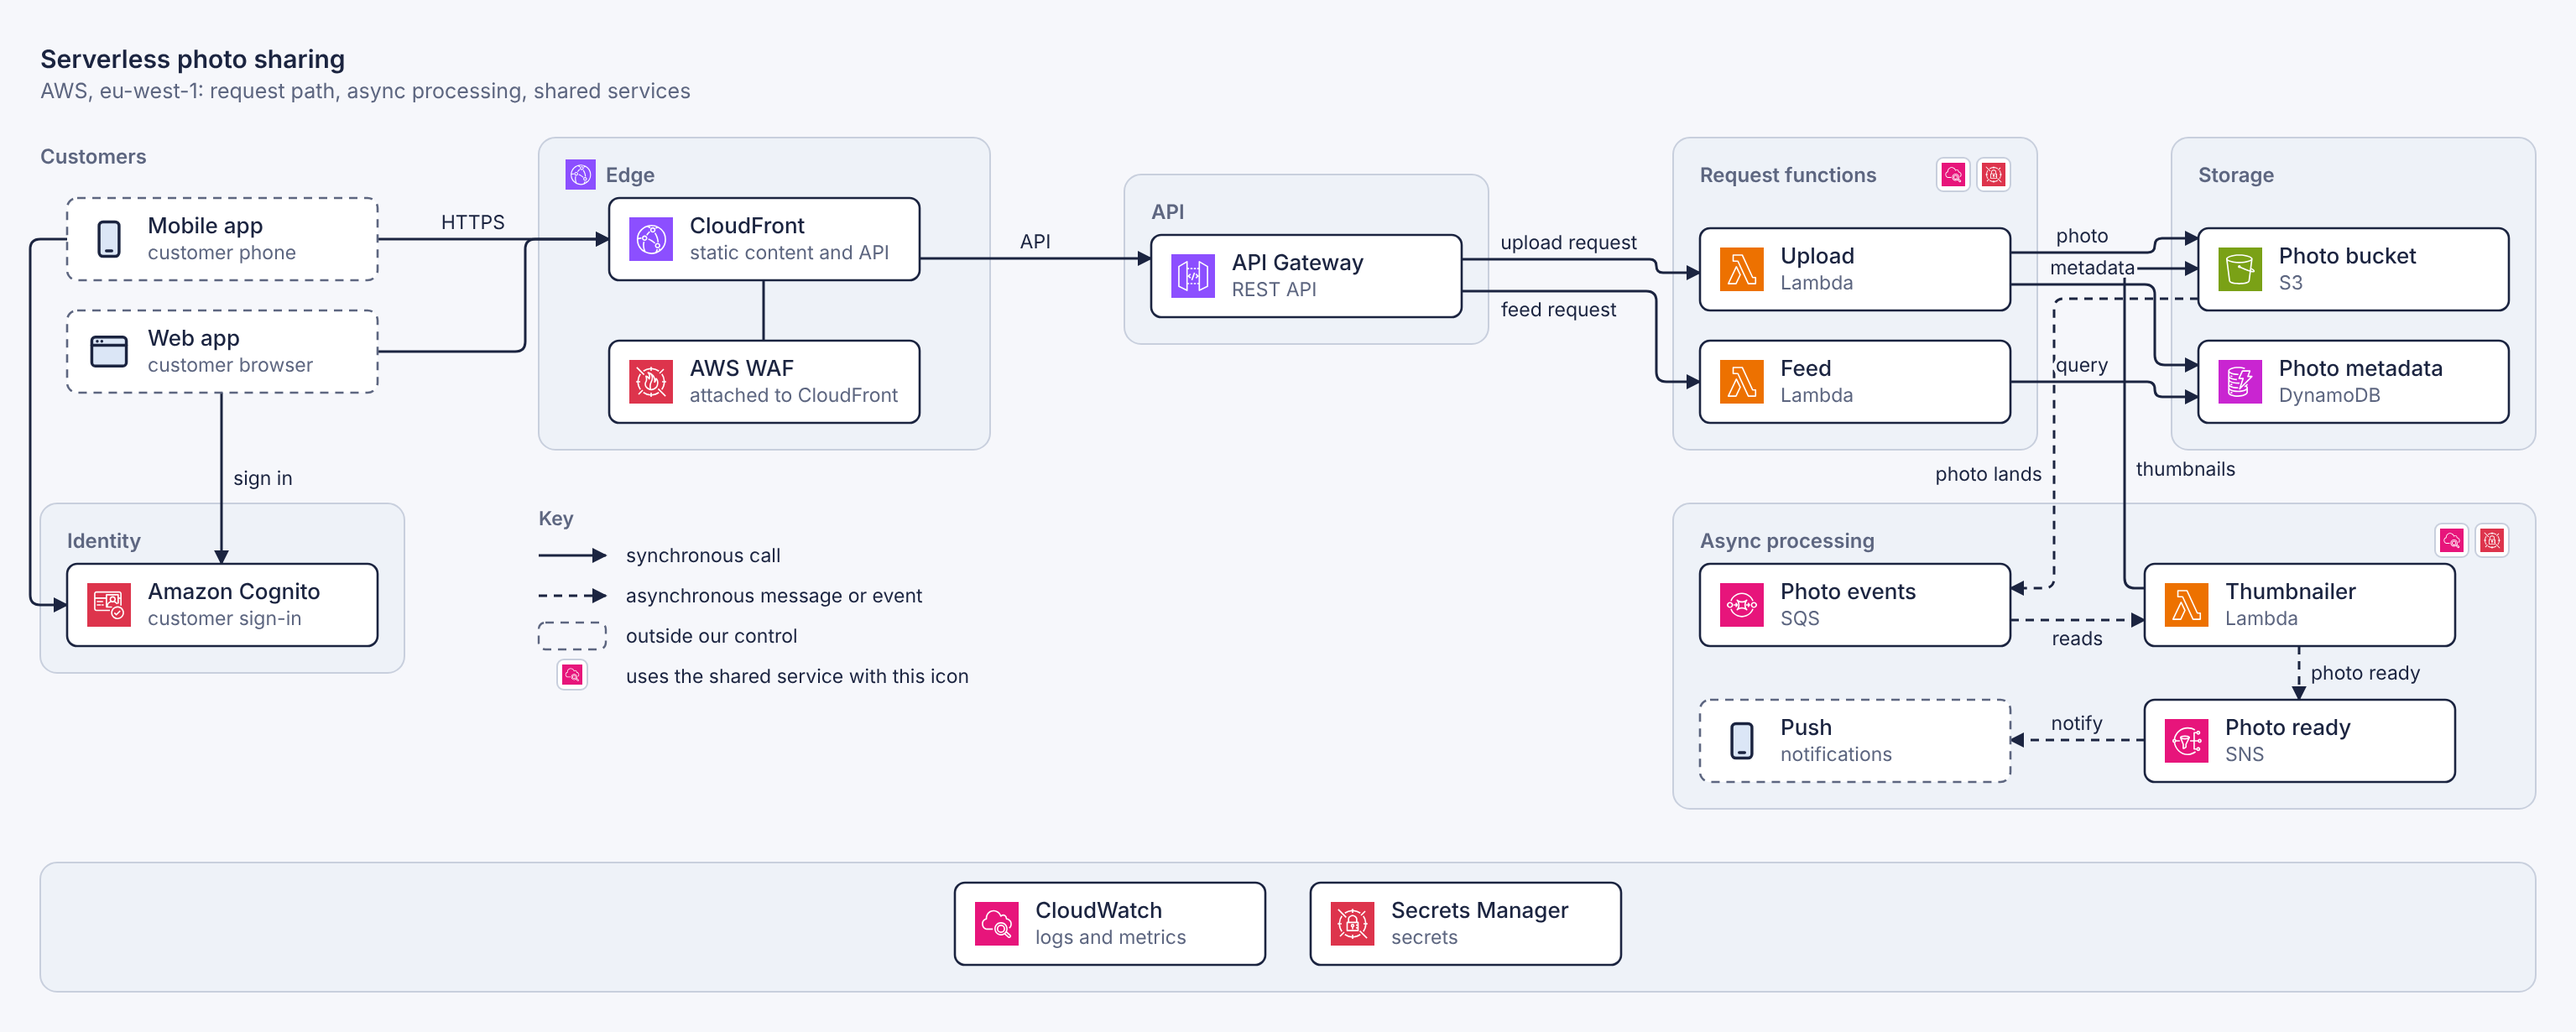
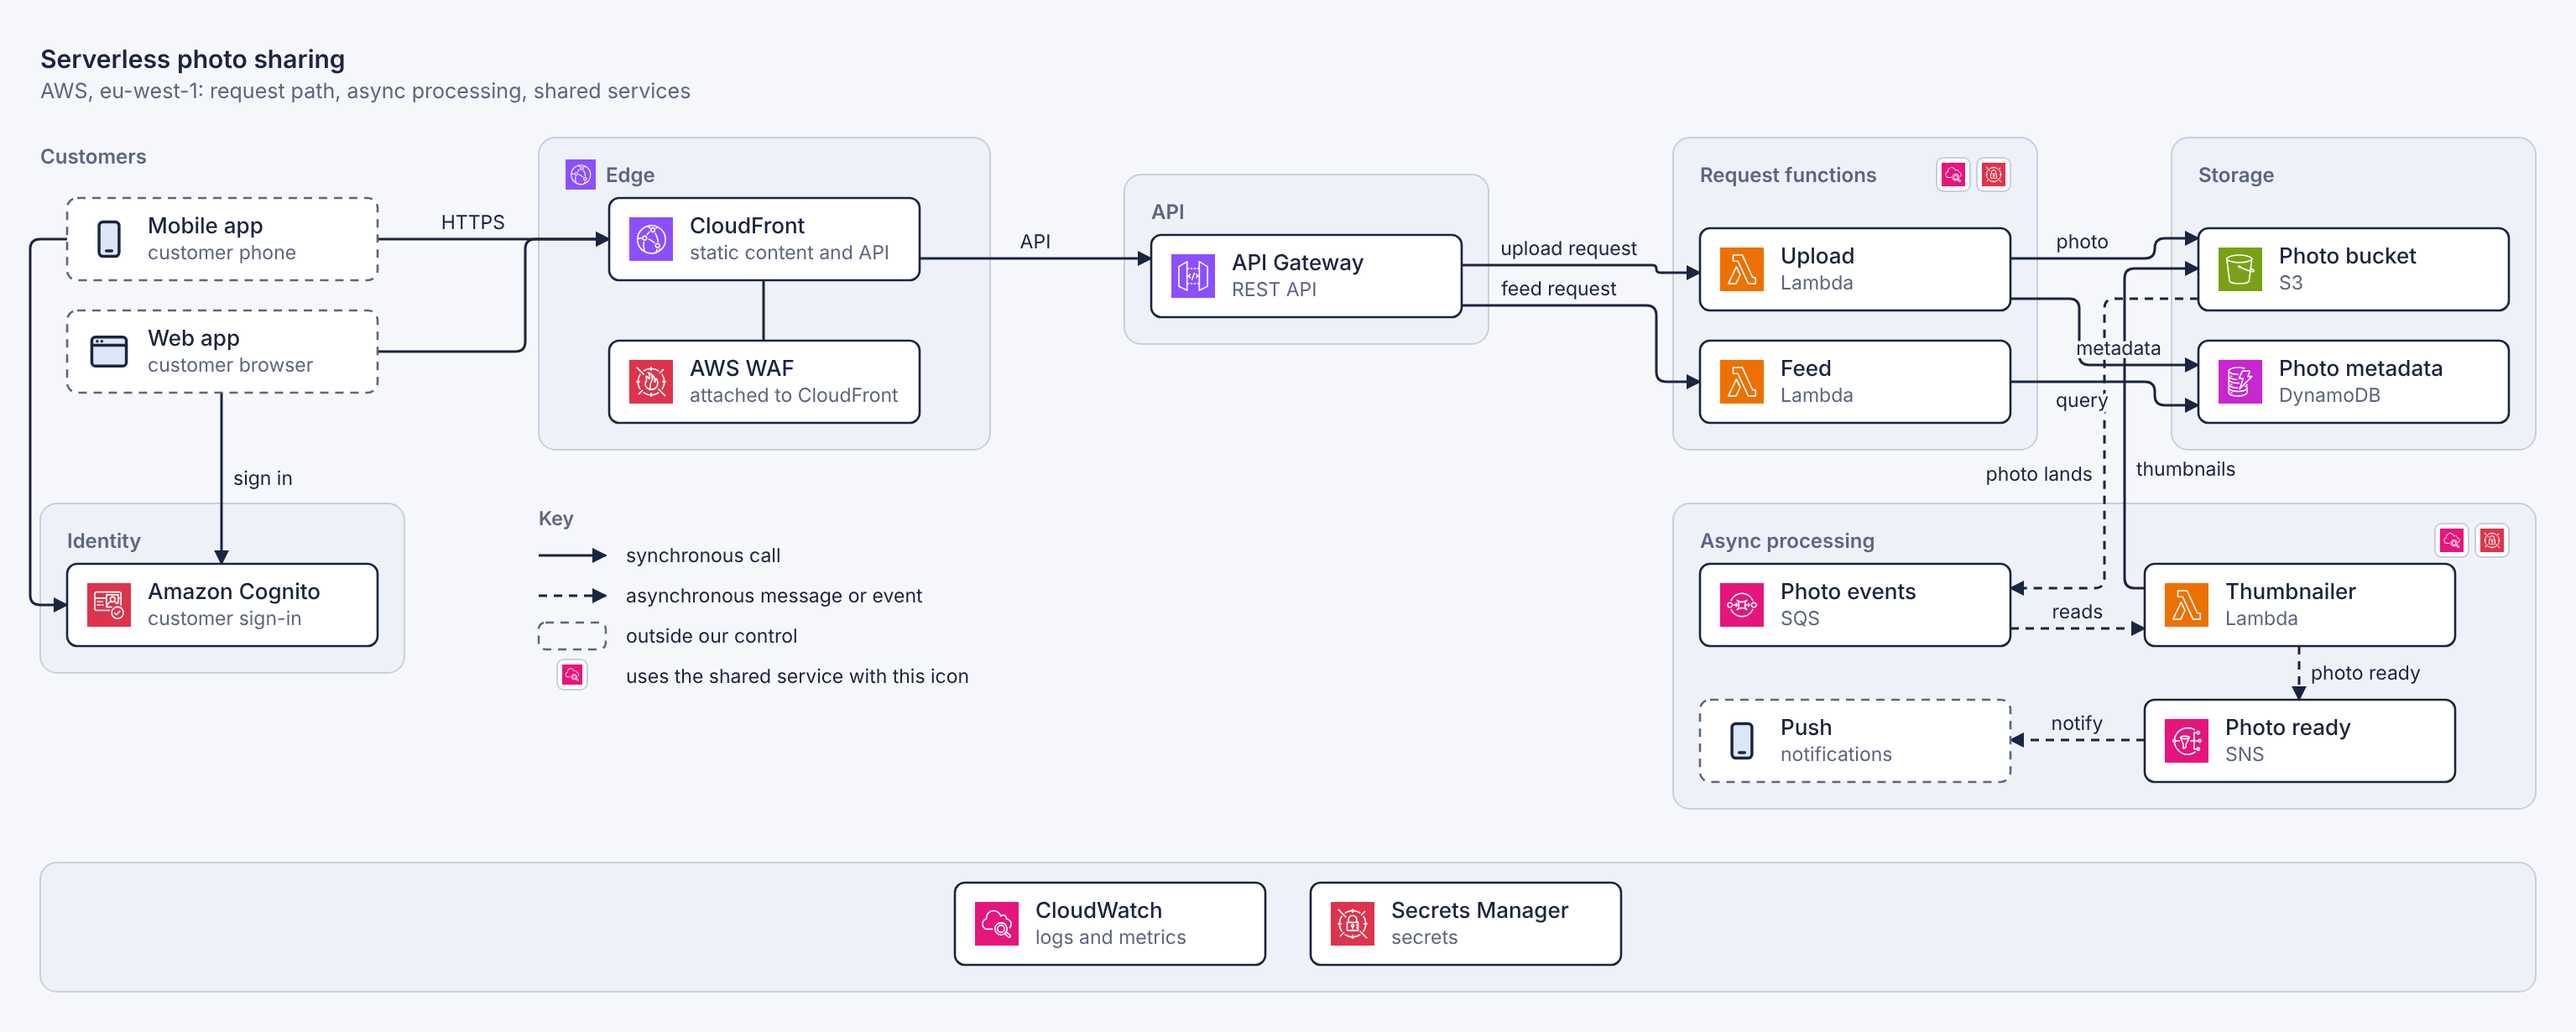
Page mode: findings of the second agent round
Routing: on a shared side, lines from facing sides whose other end lies
along the side aim for its coordinate, and the rest keep evenly spaced
slots; a forward and a backward pass keep the order and the gap, 24px
between two labelled neighbours so a label fits. This replaces the rule
that needed every line on the side to face it, which left a straight
line kinked whenever one other line on the side did not.

New problems: lines-overlap (two routed lines share a stretch) and
page-overflow (the content is wider than width). The page sample no
longer bleeds past its width.

references/page.md: what lets lines through (header strips, containers
a line connects to), headings in the way, aligning boxes a straight line
joins by sharing a grid, gateway captions, non-interrupting events, and
gates that lines connect to.

diff --git a/skills/graphally/scripts/lib/page.js b/skills/graphally/scripts/lib/page.js
@@ -283,6 +283,9 @@ function build(root, el, id, scripts, opts, m, problems) {
   const H = Math.ceil(Math.max(...boxes.map(x => x.b.y + x.b.h + S.pad), ...texts.map(t => t.y + t.h + S.pad), 2 * S.pad));
   const routes = connectors(boxes, texts, edges, drawings, problems, m, W, H);
   for (const r of routes) if (r.labelCrowded) problems.push({ rule: 'label-crowded', edge: `${r.edge.from} -> ${r.edge.to}`, label: r.edge.label, hint: 'widen the gap the line runs through, or shorten the label' });
+  overlaps(routes, problems);
+  const width = parseFloat(root.style.width);
+  if (W > width + 2 * S.pad + 1) problems.push({ rule: 'page-overflow', width, content: W - 2 * S.pad, hint: 'the content is wider than width: widen width, or narrow the columns' });
   if (opts.debug) window.__debug = { log: globalThis.__routeLog, hard: globalThis.__routeHard, routes: routes.map(r => ({ from: r.edge.from, to: r.edge.to, points: r.points.map(p => [Math.round(p.x), Math.round(p.y)]) })) };
 
   // ---------- assemble ----------
@@ -516,6 +519,22 @@ function check(texts, problems) {
     if (a.owner === b.owner) continue;
     const ox = Math.min(a.x + a.w, b.x + b.w) - Math.max(a.x, b.x), oy = Math.min(a.y + a.h, b.y + b.h) - Math.max(a.y, b.y);
     if (ox > 2 && oy > 2) problems.push({ rule: 'text-overlap', a: a.owner.id || a.owner.tagName.toLowerCase(), b: b.owner.id || b.owner.tagName.toLowerCase(), hint: 'give the text more room, or move one of them' });
+  }
+}
+
+// Two routed lines on one stretch of the same track read as one line.
+function overlaps(routes, problems) {
+  const segs = routes.map(r => r.points.slice(1).map((q, i) => [r.points[i], q]).filter(([p, q]) => Math.abs(p.x - q.x) < 0.5 || Math.abs(p.y - q.y) < 0.5));
+  for (let i = 0; i < routes.length; i++) for (let j = i + 1; j < routes.length; j++) {
+    const a = routes[i].edge, b = routes[j].edge;
+    if (a.stmt && a.stmt === b.stmt) continue;            // one statement's lines may share a trunk
+    const shared = segs[i].some(([p, q]) => segs[j].some(([u, v]) => {
+      const flat = Math.abs(p.y - q.y) < 0.5, same = flat ? Math.abs(u.y - v.y) < 0.5 && Math.abs(p.y - u.y) < 2 : Math.abs(u.x - v.x) < 0.5 && Math.abs(p.x - u.x) < 2;
+      if (!same) return false;
+      const [k] = flat ? ['x'] : ['y'], lo = Math.max(Math.min(p[k], q[k]), Math.min(u[k], v[k])), hi = Math.min(Math.max(p[k], q[k]), Math.max(u[k], v[k]));
+      return hi - lo > 12;
+    }));
+    if (shared) problems.push({ rule: 'lines-overlap', a: a.key, b: b.key, hint: 'give one of them via points or other sides' });
   }
 }
 

diff --git a/skills/graphally/scripts/lib/route.js b/skills/graphally/scripts/lib/route.js
@@ -149,17 +149,22 @@ export function routeEdges(model, geo, m) {
     const free = [];
     for (let c = origin + 6; c <= origin + along - 6; c += 2) if (sideFree(id, side, c)) free.push(c);
     const lo = free.length ? free[0] : origin + 6, hi = free.length ? free.at(-1) : origin + along - 6;
-    // Lines from facing sides keep the other end's coordinate when those are free and far
-    // enough apart: each runs straight in, instead of bending into an evenly spaced slot.
-    const want = list.map(it => it.other[side % 2 === 0 ? 'y' : 'x']);
-    if (list.every(it => it.facing) && want.every((c, i) => c >= lo && c <= hi && (i === 0 || c - want[i - 1] >= S.edge.portGap))) {
-      list.forEach((it, i) => { fixed[it.k][it.which] = { side, coord: want[i] }; });
-      continue;
-    }
     const span = hi - lo, centre = (lo + hi) / 2;
     const step = Math.min(S.edge.portGap * 1.6, list.length > 1 ? span / (list.length - 1) : 0);
     const startAt = centre - (step * (list.length - 1)) / 2;
-    list.forEach((it, i) => { fixed[it.k][it.which] = { side, coord: startAt + i * step }; });
+    // Lines from facing sides whose other end lies along the free stretch aim for its
+    // coordinate, so they run straight in; the rest keep their evenly spaced slot. A forward and a backward pass keep the order and a
+    // port gap between neighbours; when the side is too short for that, even spacing it is.
+    const axis = side % 2 === 0 ? 'y' : 'x', gap = Math.min(S.edge.portGap, step || S.edge.portGap);
+    const straight = it => it.facing && it.other[axis] >= lo && it.other[axis] <= hi;
+    const c = list.map((it, i) => (straight(it) ? it.other[axis] : startAt + i * step));
+    // Two labelled neighbours need room for a label between them.
+    const gapAt = i => (edges[list[i].k].e.label && edges[list[i - 1].k].e.label ? Math.max(gap, 24) : gap);
+    for (let i = 1; i < c.length; i++) c[i] = Math.max(c[i], c[i - 1] + gapAt(i));
+    c[c.length - 1] = Math.min(c.at(-1), hi);
+    for (let i = c.length - 2; i >= 0; i--) c[i] = Math.min(c[i], c[i + 1] - gapAt(i + 1));
+    const fits = c[0] >= lo - 0.5;
+    list.forEach((it, i) => { fixed[it.k][it.which] = { side, coord: fits ? c[i] : startAt + i * step }; });
   }
 
   // ---- straighten: an edge alone on two facing sides gets one shared coordinate ----

diff --git a/samples/page/diagram.html b/samples/page/diagram.html
@@ -5,10 +5,11 @@
   .lab { background: var(--wash); border-radius: 8px; padding: 0 14px; display: flex; flex-direction: column; justify-content: center; font-weight: 600 }
   .lab span { font-weight: 400; font-size: 11.5px; color: var(--muted) }
   .phase { height: 40px; border: 0; color: #fff; font-weight: 700; font-size: 14px; margin: 0 -8px }
-  .phase:first-of-type { margin-left: 0 }
+  #p1 { margin-left: 0 } #p4 { margin-right: 0 }
   .ms { grid-column: 2 / -1; display: grid; grid-template-columns: subgrid; font-size: 11.5px; color: var(--muted) }
   .ms div { grid-column: span 1; text-align: right; margin-right: -64px; padding-right: 0 }
-  .band { grid-column: 2 / -1; display: grid; grid-template-columns: subgrid; padding: 10px; margin: 0 -10px; border-radius: 10px }
+  .band { grid-column: 2 / -1; display: grid; grid-template-columns: subgrid; padding: 10px 0; border-radius: 10px }
+  .band .card:first-child { margin-left: 10px } .band .card:last-child { margin-right: 10px }
   .band .card { border: 0 }
   .band .card b { display: block; margin-bottom: 4px }
   .plat { background: var(--lane-a) } .apps { background: var(--lane-b) } .sec { background: var(--lane-d) }

diff --git a/skills/graphally/references/page.md b/skills/graphally/references/page.md
@@ -110,10 +110,16 @@ takes `out` and `in` (`top`, `right`, `bottom`, `left`: the sides it leaves and 
 ## Lines
 
 - `connect` finds its own way. Every box with a background, a border or a shape blocks it,
-  and so does text outside boxes; a box that holds other boxes in the HTML lets it in to
-  reach them. A box painted behind boxes it does not hold (a lane's background in the same
-  grid cells) does not block. The script's straight lines count as taken, so `connect`
-  keeps off them.
+  and so does text outside boxes (a heading in the way makes it detour: move or align the
+  heading clear of the line). A box that holds other boxes in the HTML lets it in to reach
+  them, and so does a container it connects to: the line ends on the container's border.
+  These do not block: a box painted behind boxes it does not hold (a lane's background in
+  the same grid cells), and a full-width header strip without an id, up to 48px tall. The
+  script's straight lines count as taken, so `connect` keeps off them.
+- Lines that share a side spread along it; a line whose other end faces it runs straight
+  in when that end lies along the side. Two boxes line up only when they share a grid row
+  or column: put boxes that a straight line joins in one grid (or a `subgrid`), rather
+  than nudging one with margins.
 - It keeps 6px from boxes, so it passes through any gap wider than 12px. A labelled line
   needs a gap wider than its label (about 7px per character at the default size).
 - Where it takes a way you do not want, give it `via` points (from elements: `mid(a.right,
@@ -133,6 +139,8 @@ takes `out` and `in` (`top`, `right`, `bottom`, `left`: the sides it leaves and 
 | `unroutable` | the line has no way through: widen a gap, or give it `via` points |
 | `override-ignored … by=x` | the side is blocked by `x`: choose another side |
 | `label-crowded` | widen the gap the line runs through, or shorten the label |
+| `lines-overlap` | two lines share a stretch and read as one: give one `via` points or other sides |
+| `page-overflow` | the content is wider than `width`: widen `width`, or narrow the columns |
 | `text-overlap` | two texts of the page collide: give one more room |
 | `bad-attribute`, `bad-option` | a value that is not allowed (`width=1200`, a `head` name) |
 
@@ -154,8 +162,13 @@ id=s></i>Order placed</div>` with `.ev { display: flex; flex-direction: column;
 align-items: center; gap: 4px }`. A boundary event is a child of its task, placed on the
 border: `<div shape=task style="position: relative">Review<i shape="event timer"
 style="position: absolute; bottom: -18px; right: 14px" id=late></i></div>`; lines can
-leave from it. Sequence flows are `connect` with labels on the branches; message flows
-between pools are `connect(a, b, { message: true })`.
+leave from it. Gateways take a caption the same way, above or below. Sequence flows are `connect`
+with labels on the branches; message flows between pools are `connect(a, b, { message:
+true })`. A non-interrupting boundary event has `border-style: dashed`.
+
+**Gates that lines connect to.** `gate()` is a drawing, not an element, so lines cannot
+end on it. A gate in a flow is an element: `<i shape=gateway id=g1></i>` (or `shape=diamond`
+with a background and `border: 0` for a filled one).
 
 **Architecture.** Tiers as boxes holding cards with icons (`<div class=card><icon
 name=sql></icon> Orders DB</div>`), placed by a grid; `connect` for the calls, `dashed`
